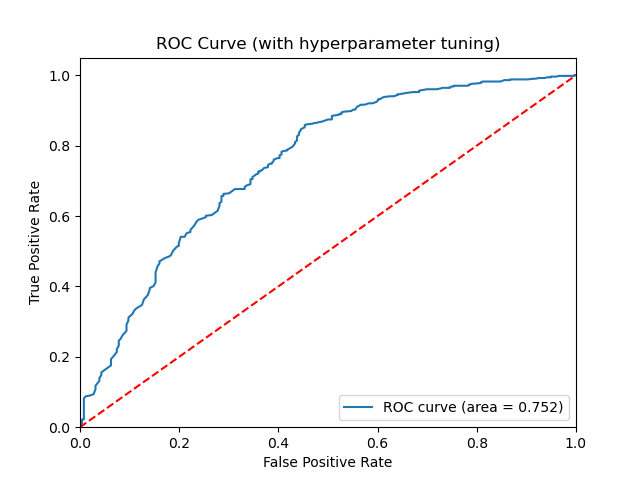
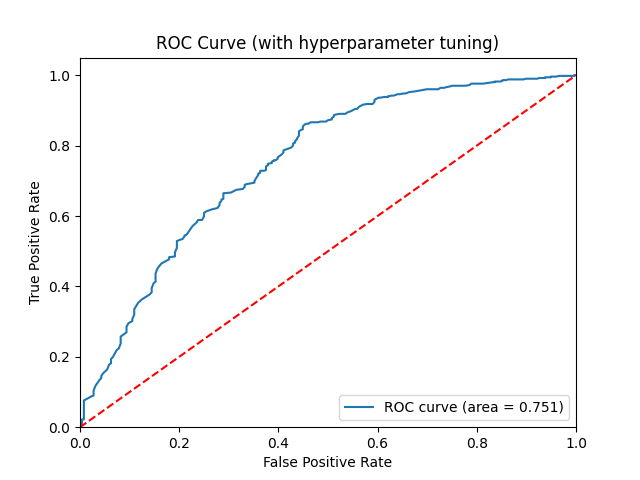
-

diff --git a/Random_Forest_pretty.py b/Random_Forest_pretty.py
@@ -161,7 +161,12 @@ sorted_lists = sorted(lists, key=lambda x: x[1], reverse=True)
 df_importances = pd.DataFrame(sorted_lists, columns=['Feature', 'Importance'])
 # Print the DataFrame
 print(df_importances.head(10))
-
+top_features = df_importances.head(10)
+plt.figure(figsize=(10, 6))
+plt.title(f'Top 10 Most Relevant Features')
+plt.xlabel('Importance')
+plt.ylabel('Feature')
+plt.savefig('output/RF_Top_10_Features.png')
                                                                                                         #maybe feature importance plot
 
 ####################################### RF with UVFS ########################################################
@@ -176,7 +181,7 @@ print("Selected features (UVFS):", selected_features)
 
 
 #Optimal n_estimators
-n_estimators = [5, 10, 50, 100, 105,106,107, 150]
+n_estimators = [5, 10, 50, 100, 150, 200, 250, 300]
 best_roc_auc = 0
 best_n_estimators = None
 
